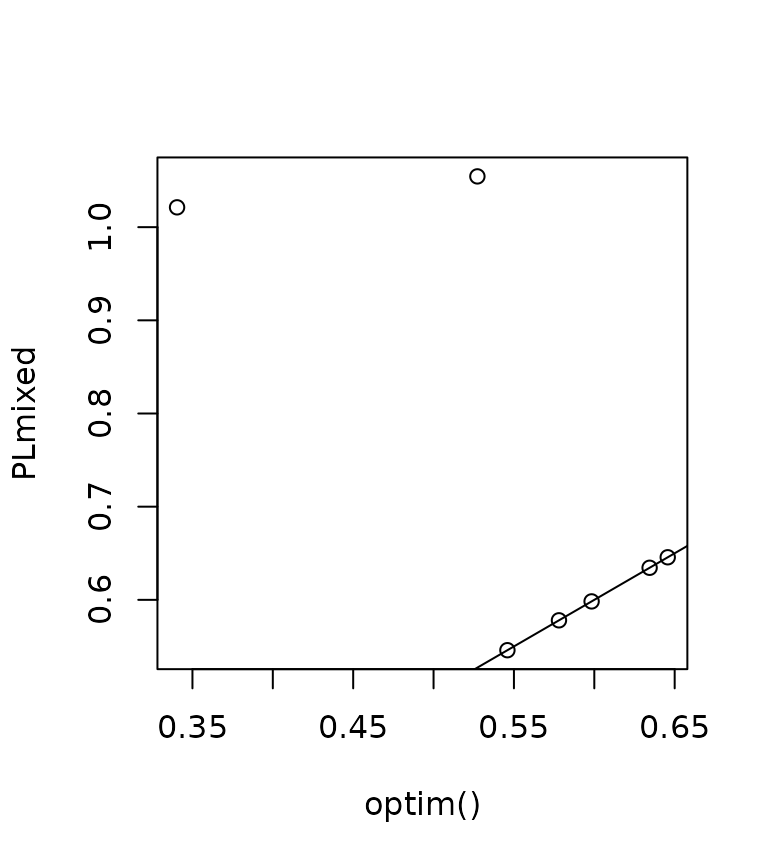
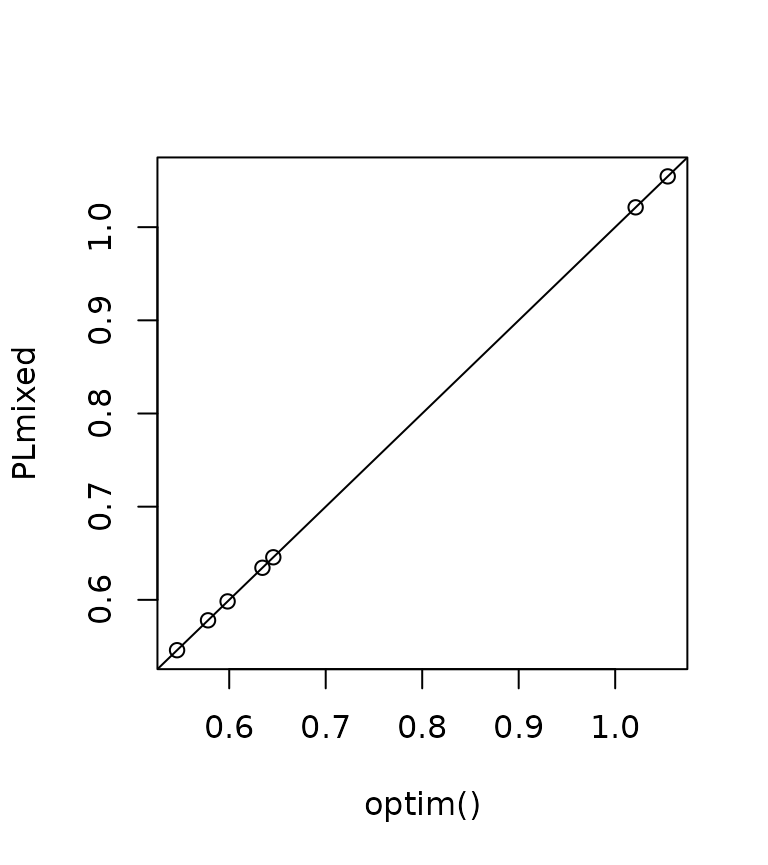
Deploying to gh-pages from @ LCBC-UiO/galamm@fa2e3eb09b525f3223f0ed6daed9eff6c4a78cde 🚀

diff --git a/articles/MaximumLikelihood.html b/articles/MaximumLikelihood.html
@@ -104,8 +104,7 @@
 <p>We start by adding <span class="math inline">\(\lambda\)</span> as a variable in the model:</p>
 <div class="sourceCode" id="cb4"><pre class="downlit sourceCode r">
 <code class="sourceCode R"><span><span class="va">dat</span> <span class="op">&lt;-</span> <span class="va">IRTsub</span></span>
-<span><span class="va">lambda_init</span> <span class="op">&lt;-</span> <span class="fu"><a href="https://rdrr.io/r/base/c.html" class="external-link">c</a></span><span class="op">(</span><span class="fl">1</span>, <span class="fl">2</span>, <span class="fl">3</span><span class="op">)</span></span>
-<span><span class="va">dat</span><span class="op">$</span><span class="va">abil.sid</span> <span class="op">&lt;-</span> <span class="va">lambda_init</span><span class="op">[</span><span class="va">dat</span><span class="op">$</span><span class="va">item</span><span class="op">]</span></span></code></pre></div>
+<span><span class="va">dat</span><span class="op">$</span><span class="va">abil.sid</span> <span class="op">&lt;-</span> <span class="fl">1</span></span></code></pre></div>
 <p>We then generate the components of a linear mixed model:</p>
 <div class="sourceCode" id="cb5"><pre class="downlit sourceCode r">
 <code class="sourceCode R"><span><span class="kw"><a href="https://rdrr.io/r/base/library.html" class="external-link">library</a></span><span class="op">(</span><span class="va"><a href="https://github.com/lme4/lme4/" class="external-link">lme4</a></span><span class="op">)</span></span>
@@ -114,11 +113,10 @@
 <p>The fixed effects matrix does not contain any factor loadings, so we keep it as is.</p>
 <div class="sourceCode" id="cb6"><pre class="downlit sourceCode r">
 <code class="sourceCode R"><span><span class="va">X</span> <span class="op">&lt;-</span> <span class="va">lmod</span><span class="op">$</span><span class="va">X</span></span></code></pre></div>
-<p>The random effects matrix does contain factor loadings, so we need a mapping. Also note that it is sparse. In the mapping, <span class="math inline">\(-1\)</span> denotes an element of <span class="math inline">\(\lambda\)</span> which is fixed. In addition, since C++ has base zero indexing, we need to subtract an integer 2.</p>
+<p>The random effects matrix does contain factor loadings, so we need a mapping.</p>
 <div class="sourceCode" id="cb7"><pre class="downlit sourceCode r">
 <code class="sourceCode R"><span><span class="va">Zt</span> <span class="op">&lt;-</span> <span class="va">lmod</span><span class="op">$</span><span class="va">reTrms</span><span class="op">$</span><span class="va">Zt</span></span>
-<span><span class="va">lambda_mapping_Zt</span> <span class="op">&lt;-</span> <span class="fu"><a href="https://rdrr.io/r/base/lapply.html" class="external-link">sapply</a></span><span class="op">(</span><span class="va">lmod</span><span class="op">$</span><span class="va">reTrms</span><span class="op">$</span><span class="va">Zt</span><span class="op">@</span><span class="va">x</span>, </span>
-<span>                            <span class="kw">function</span><span class="op">(</span><span class="va">x</span><span class="op">)</span> <span class="fu"><a href="https://rdrr.io/r/base/which.html" class="external-link">which</a></span><span class="op">(</span><span class="va">x</span> <span class="op">==</span> <span class="va">lambda_init</span><span class="op">)</span><span class="op">)</span> <span class="op">-</span> <span class="fl">2L</span></span></code></pre></div>
+<span><span class="va">lambda_mapping_Zt</span> <span class="op">&lt;-</span> <span class="fu"><a href="https://rdrr.io/r/base/rep.html" class="external-link">rep</a></span><span class="op">(</span><span class="fu"><a href="https://rdrr.io/r/base/integer.html" class="external-link">as.integer</a></span><span class="op">(</span><span class="va">dat</span><span class="op">$</span><span class="va">item</span><span class="op">)</span>, each <span class="op">=</span> <span class="fl">2L</span><span class="op">)</span> <span class="op">-</span> <span class="fl">2L</span></span></code></pre></div>
 <p>We also extract the random effects covariance matrix, with its mapping to <span class="math inline">\(\theta\)</span>. See <span class="citation">Bates et al. (2015)</span> for details.</p>
 <div class="sourceCode" id="cb8"><pre class="downlit sourceCode r">
 <code class="sourceCode R"><span><span class="va">Lambdat</span> <span class="op">&lt;-</span> <span class="va">lmod</span><span class="op">$</span><span class="va">reTrms</span><span class="op">$</span><span class="va">Lambdat</span></span>
@@ -144,12 +142,12 @@
 <code class="sourceCode R"><span><span class="op">-</span><span class="fl">2</span> <span class="op">*</span> <span class="va">irt.model</span><span class="op">$</span><span class="va">`Log-Likelihood`</span></span>
 <span><span class="co">#&gt; [1] 387.1267</span></span>
 <span><span class="va">ml</span><span class="op">$</span><span class="va">deviance</span></span>
-<span><span class="co">#&gt; [1] 445.1005</span></span></code></pre></div>
+<span><span class="co">#&gt; [1] 387.1267</span></span></code></pre></div>
 <p>The <code>marginal_likelihood</code> function also returns the gradient of the marginal likelihood with respect to <span class="math inline">\(\theta\)</span>, <span class="math inline">\(\beta\)</span>, and <span class="math inline">\(\lambda\)</span>, in that order. Reassuringly, it is close to zero. Not however that <code>PLmixed</code> returns the maximum of the profile likelihood, which albeit consistent, is not the same as the maximum likelihood estimate <span class="citation">(Gong and Samaniego 1981; Parke 1986; Pawitan 2001)</span>.</p>
 <div class="sourceCode" id="cb11"><pre class="downlit sourceCode r">
 <code class="sourceCode R"><span><span class="va">ml</span><span class="op">$</span><span class="va">gradient</span></span>
-<span><span class="co">#&gt; [1] 121.5204727  38.9467076  -0.6478820   0.9911561  -1.4393518  37.3612057</span></span>
-<span><span class="co">#&gt; [7] 101.3513143</span></span></code></pre></div>
+<span><span class="co">#&gt; [1]  2.438535e-06  3.918029e-06 -5.440350e-13 -8.484958e-13 -7.526399e-13</span></span>
+<span><span class="co">#&gt; [6]  4.070702e-05 -3.101126e-05</span></span></code></pre></div>
 <p>This gradient is computed with algorithmic differentiation using the <code>autodiff</code> C++ library <span class="citation">(Leal 2018)</span>, which means that it is exact to computer precision.</p>
 <p>We can use this gradient to find the maximum likelihood estimates of the model (technically, the Laplace approximate marginal maximum likelihood estimates). We also use <code>memoise</code> to avoid evaluating the function unnecessarily.</p>
 <div class="sourceCode" id="cb12"><pre class="downlit sourceCode r">
@@ -193,7 +191,7 @@
 <span><span class="co">#&gt; [1] 387.1267</span></span>
 <span><span class="op">-</span><span class="fl">2</span> <span class="op">*</span> <span class="va">irt.model</span><span class="op">$</span><span class="va">`Log-Likelihood`</span></span>
 <span><span class="co">#&gt; [1] 387.1267</span></span></code></pre></div>
-<p>We can confirm that the parameters are identical:</p>
+<p>We can confirm that the parameters are almost identical:</p>
 <div class="sourceCode" id="cb14"><pre class="downlit sourceCode r">
 <code class="sourceCode R"><span><span class="fu"><a href="https://rdrr.io/r/graphics/plot.default.html" class="external-link">plot</a></span><span class="op">(</span></span>
 <span>  <span class="va">opt</span><span class="op">$</span><span class="va">par</span>, </span>
@@ -218,7 +216,7 @@
 <span>                     lambda <span class="op">=</span> <span class="fu"><a href="https://rdrr.io/r/base/list.html" class="external-link">list</a></span><span class="op">(</span><span class="va">irt.lam</span><span class="op">)</span>, iter.count <span class="op">=</span> <span class="cn">FALSE</span><span class="op">)</span></span>
 <span><span class="op">}</span><span class="op">)</span></span></code></pre></div>
 <pre><code><span><span class="co">#&gt;    user  system elapsed </span></span>
-<span><span class="co">#&gt;   2.472   0.000   2.472</span></span></code></pre>
+<span><span class="co">#&gt;   2.492   0.008   2.500</span></span></code></pre>
 </div>
 </div>
 <div class="section level2">
@@ -501,12 +499,13 @@
 <span><span class="va">gr</span> <span class="op">&lt;-</span> <span class="kw">function</span><span class="op">(</span><span class="va">par</span><span class="op">)</span><span class="op">{</span></span>
 <span>  <span class="fu">mlmem</span><span class="op">(</span><span class="va">par</span><span class="op">)</span><span class="op">$</span><span class="va">gradient</span></span>
 <span><span class="op">}</span></span></code></pre></div>
-<p>It ends up at the right values. Profile likelihood estimation fails from these initial values, and is much slower.</p>
+<p>It ends up at the right values. Profile likelihood estimation fails from these initial values, and is much slower. Note that the deviance is lower now, because the factor loadings are estimated, rather than fixed at <span class="math inline">\((1, 2, .4)\)</span>.</p>
 <div class="sourceCode" id="cb42"><pre class="downlit sourceCode r">
 <code class="sourceCode R"><span><span class="va">par_init</span> <span class="op">&lt;-</span> <span class="fu"><a href="https://rdrr.io/r/base/c.html" class="external-link">c</a></span><span class="op">(</span><span class="fl">1</span>, <span class="fl">1</span>, <span class="fl">0</span>, <span class="fl">0</span>, <span class="fl">1</span>, <span class="fl">1</span><span class="op">)</span></span>
+<span></span>
 <span><span class="va">opt</span> <span class="op">&lt;-</span> <span class="fu"><a href="https://rdrr.io/r/stats/optim.html" class="external-link">optim</a></span><span class="op">(</span><span class="va">par_init</span>, fn <span class="op">=</span> <span class="va">fn</span>, gr <span class="op">=</span> <span class="va">gr</span>, </span>
-<span>             method <span class="op">=</span> <span class="st">"L-BFGS-B"</span>, lower <span class="op">=</span> <span class="va">bounds</span>, </span>
-<span>             control <span class="op">=</span> <span class="fu"><a href="https://rdrr.io/r/base/list.html" class="external-link">list</a></span><span class="op">(</span>maxit <span class="op">=</span> <span class="fl">2000</span><span class="op">)</span><span class="op">)</span></span>
+<span>           method <span class="op">=</span> <span class="st">"L-BFGS-B"</span>, lower <span class="op">=</span> <span class="va">bounds</span>, </span>
+<span>           control <span class="op">=</span> <span class="fu"><a href="https://rdrr.io/r/base/list.html" class="external-link">list</a></span><span class="op">(</span>maxit <span class="op">=</span> <span class="fl">2000</span><span class="op">)</span><span class="op">)</span></span>
 <span></span>
 <span><span class="va">opt</span><span class="op">$</span><span class="va">value</span></span>
 <span><span class="co">#&gt; [1] 768.3233</span></span>
